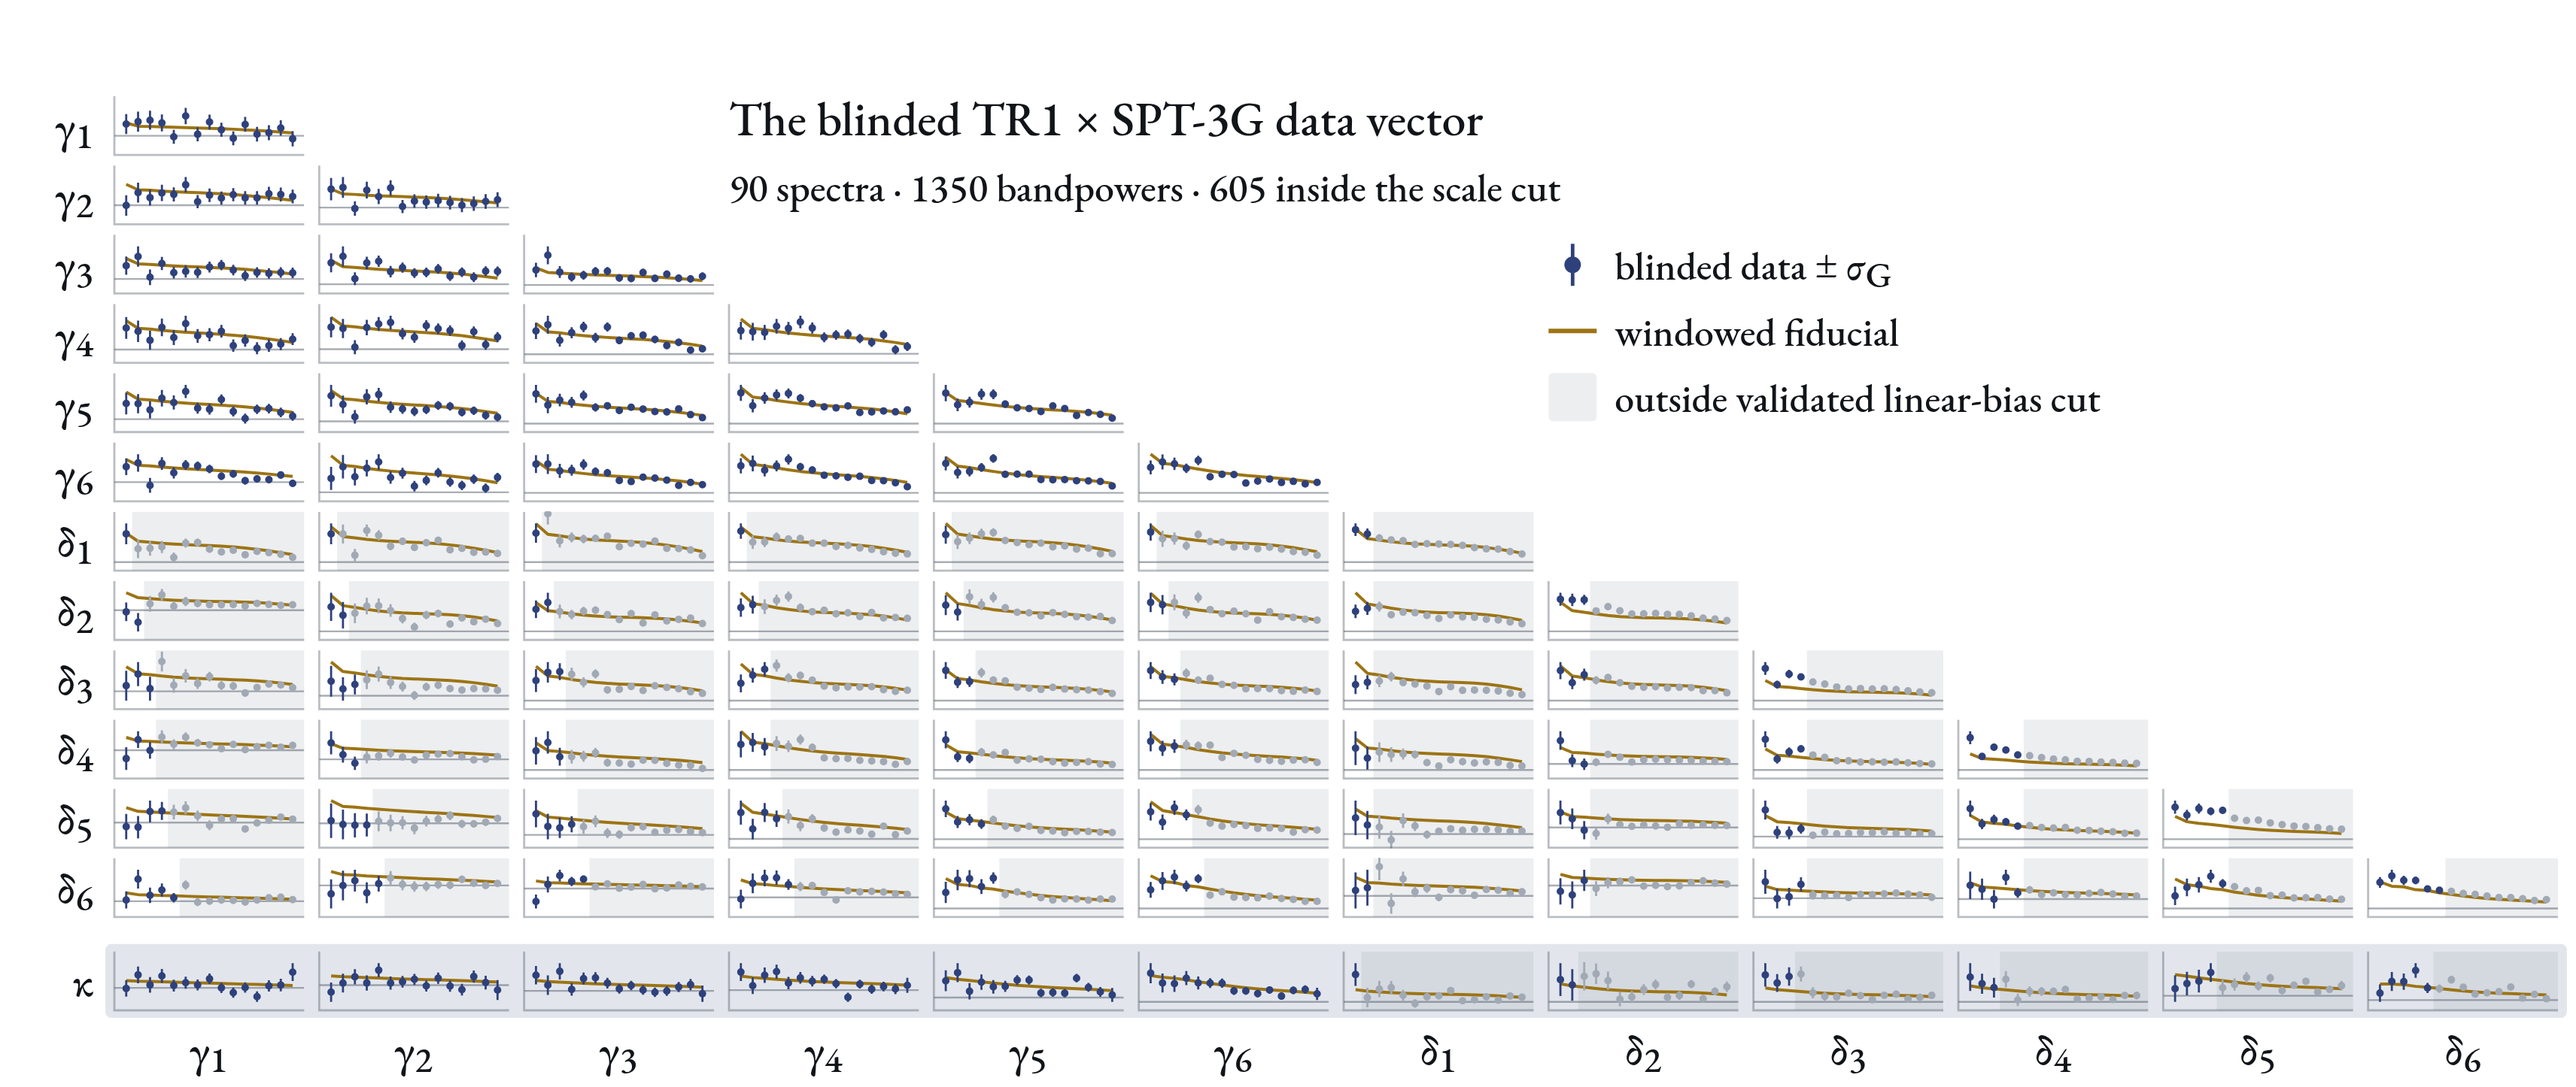
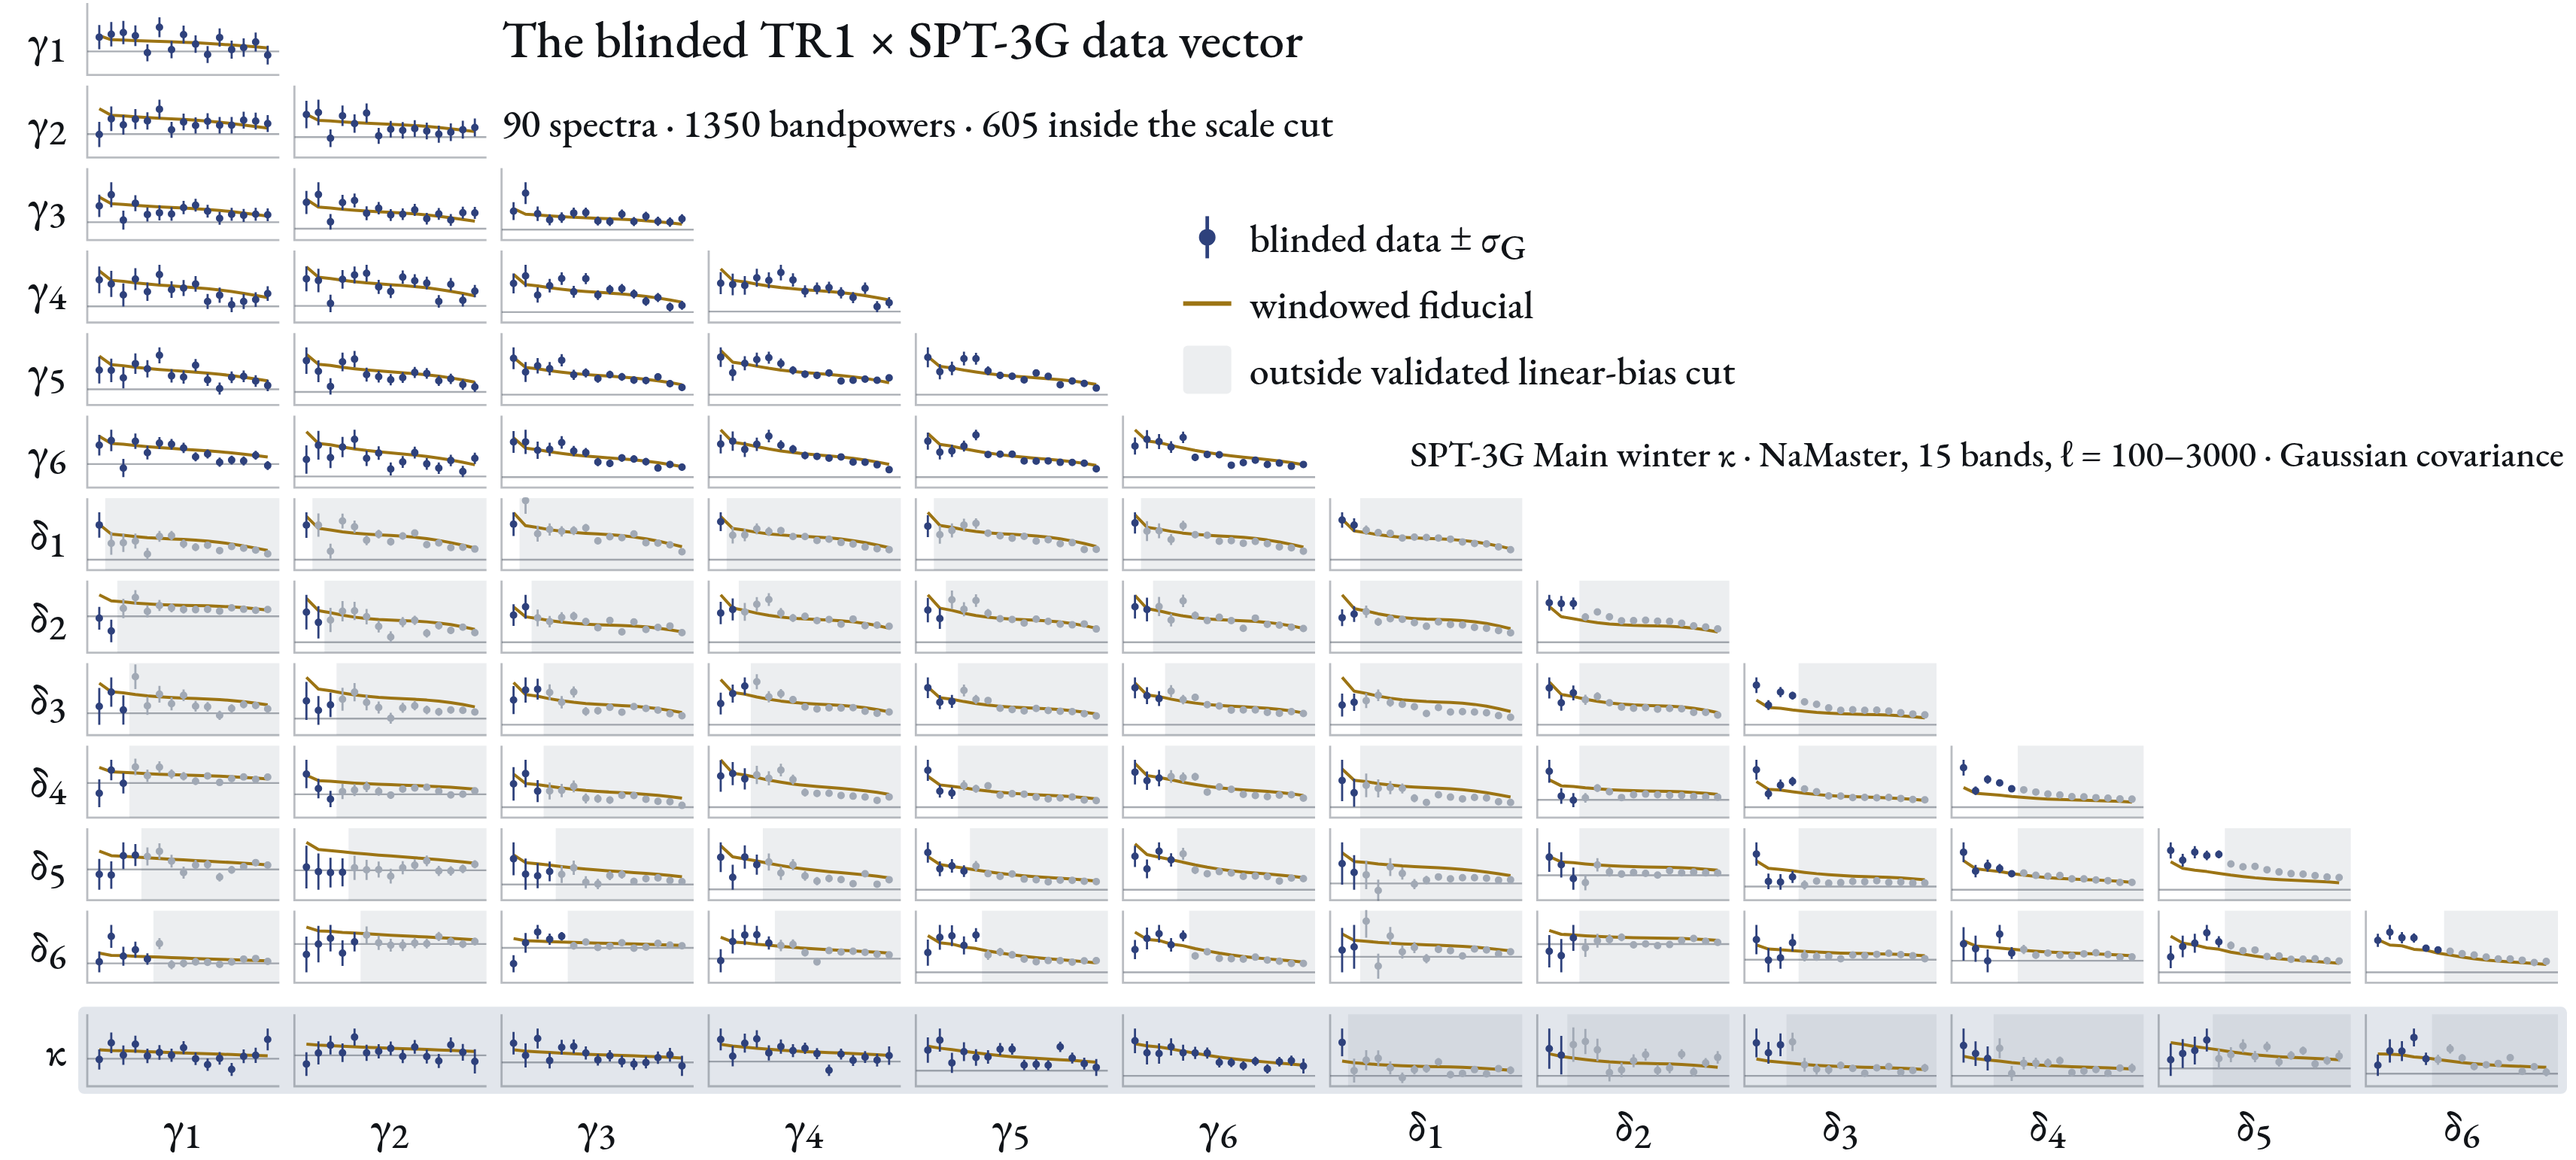
Napoli CMBX: dv-vector fills the whole slide body
The figure drops its source line (now in the notes, and as a fine line in
the triangle) and takes the full 1712×771 body. The triangle spans edge to
edge with taller cells (49 px, from 41), its title, counts, key, source and
click hint set in the empty upper-right corner; the detailed rows and the
detail card grow to match. Fallback frames re-snapshotted.

Claude-Session: https://claude.ai/code/session_01EG55r8GFGPwC9QUBtYHiTU

diff --git a/2610_Napoli_CMBX/private/dv_vector.js b/2610_Napoli_CMBX/private/dv_vector.js
@@ -15,7 +15,7 @@ House.app('dv_vector', function (figure, data, ctx) {
   'use strict';
   var T0 = performance.now();
   var NS = 'http://www.w3.org/2000/svg';
-  var W = 1712, H = 723;
+  var W = 1712, H = 771;                         // the figure layout's whole body
   var PAN_MS = 1000, ZOOM_MS = 1400, EASE = 'cubic-bezier(0.65, 0, 0.35, 1)';
 
   // ── data ────────────────────────────────────────────────────────────────
@@ -228,7 +228,7 @@ House.app('dv_vector', function (figure, data, ctx) {
   // ── layouts ─────────────────────────────────────────────────────────────
   // the kappa row: gamma_1..6 then delta_1..6, a frame width apart
   var LEFT = 118, GAP = 18, PW = (W - LEFT - 10 - 5 * GAP) / 6;
-  var MAIN = { y: 78, h: 392 }, STRIP = { y: 482, h: 150 };
+  var MAIN = { y: 70, h: 440 }, STRIP = { y: 522, h: 162 };
   var rowKeys = [0, 1, 2, 3, 4, 5].map(function (i) { return 'kappa_l' + i; })
     .concat([0, 1, 2, 3, 4, 5].map(function (i) { return 'kappa_g' + i; }));
   var rowX = function (j) { return (j < 6 ? 0 : W) + LEFT + (j % 6) * (PW + GAP); };
@@ -240,7 +240,7 @@ House.app('dv_vector', function (figure, data, ctx) {
     var rank = function (t) { return (t[0] === 'g' ? 0 : 10) + +t.slice(1); };
     return rank(a) <= rank(b) ? a + '_' + b : b + '_' + a;
   };
-  var GX = 76, GY = 64, KAPPA_GAP = 16, LAB = 44;
+  var GX = 58, GY = 2, KAPPA_GAP = 14, LAB = 42;
   var CP = (W - GX - 2) / 12, CW = CP - 10;
   var RP = (H - GY - LAB - KAPPA_GAP) / 13, CH = RP - 7;
   var cell = function (row, col) {
@@ -326,12 +326,15 @@ House.app('dv_vector', function (figure, data, ctx) {
   text(tdec, GX - 14, kc.y + kc.h / 2 + 10, 'κ', { size: 28, anchor: 'end' });
   var nb = 0, nf = 0;
   Object.keys(pairs).forEach(function (k) { nb += pairs[k].ell.length; nf += pairs[k].nfit; });
-  var hc = cell(0, 3);
-  text(tdec, hc.x, GY + 26, 'The blinded TR1 × SPT-3G data vector', { size: 32 });
-  text(tdec, hc.x, GY + 70, Object.keys(pairs).length + ' spectra · ' + nb + ' bandpowers · ' + nf + ' inside the scale cut',
+  // title, counts, key and source fill the empty upper-right triangle
+  var at = function (row, col) { var c = cell(row, col); return { x: c.x, y: c.y }; };
+  text(tdec, at(0, 2).x, at(0, 0).y + 36, 'The blinded TR1 × SPT-3G data vector', { size: 34 });
+  text(tdec, at(1, 2).x, at(1, 0).y + 34, Object.keys(pairs).length + ' spectra · ' + nb + ' bandpowers · ' + nf + ' inside the scale cut',
     { size: 26, cls: 'dvv-muted' });
-  keys.push({ g: el('g', {}, tdec), items: ['pt', 'th', 'cut'], stack: { x: cell(2, 7).x, y: cell(2, 7).y + 30 } });
-  text(tdec, cell(5, 9).x + CW, cell(5, 9).y + 30, 'click a panel to open it', { size: 24, anchor: 'end', cls: 'dvv-muted dvv-hint', italic: true });
+  keys.push({ g: el('g', {}, tdec), items: ['pt', 'th', 'cut'], stack: { x: at(2, 5).x + 40, y: at(2, 0).y + 56 } });
+  text(tdec, W - 8, at(6, 0).y + 34, 'click a panel to open it', { size: 24, anchor: 'end', cls: 'dvv-muted dvv-hint', italic: true });
+  text(tdec, W - 8, at(5, 0).y + 34, ['SPT-3G Main winter κ · NaMaster, 15 bands, ', 'ℓ', ' = 100–3000 · Gaussian covariance'],
+    { size: 24, anchor: 'end', cls: 'dvv-muted' });
   add(tdec, [{ o: 0, v: false }, { o: 0, v: false }, { o: 1, v: true }]);
   var kr = cell(12, 0), kr2 = cell(12, 11);
   el('rect', { x: kr.x - 6, y: kr.y - 5, width: kr2.x + kr2.w - kr.x + 12, height: kr.h + 10, rx: 4 }, tint);
@@ -406,7 +409,7 @@ House.app('dv_vector', function (figure, data, ctx) {
       : p.nfit + ' of ' + p.fit.length + ' bands inside the validated linear-bias cut';
     text(box, B.x + 48, B.y + 100, name(c.a) + ' × ' + name(c.b) + ' · blinded · ' + note, { size: 26, cls: 'dvv-muted' });
     drawKey({ g: el('g', {}, box), right: B.x + B.w - 40, y: B.y + 60, items: ['pt', 'th'].concat(p.nfit < p.fit.length ? ['cut'] : []) });
-    var m = { x: B.x + 150, y: B.y + 140, w: B.w - 196, h: 300 }, s = { x: m.x, y: m.y + m.h + 12, w: m.w, h: 118 };
+    var m = { x: B.x + 150, y: B.y + 140, w: B.w - 196, h: 320 }, s = { x: m.x, y: m.y + m.h + 12, w: m.w, h: 132 };
     var q = (function () {
       var lo = 0, hi = 0;
       p.t.forEach(function (t) { lo = Math.min(lo, t); hi = Math.max(hi, t); });
@@ -424,7 +427,7 @@ House.app('dv_vector', function (figure, data, ctx) {
     var rg = el('g', { transform: 'translate(' + s.x + ' ' + s.y + ') scale(' + s.w + ' ' + s.h + ')' }, box);
     drawResid(rg, p);
     drawAxes(box, m, s, q, { labels: true, ylabel: ylabel(p.e), xt: [100, 300, 1000, 3000] });
-    text(box, m.x + m.w / 2, s.y + s.h + 76, ['multipole ', 'ℓ'], { size: 28, anchor: 'middle' });
+    text(box, m.x + m.w / 2, s.y + s.h + 72, ['multipole ', 'ℓ'], { size: 28, anchor: 'middle' });
     // what the strip cannot show, said plainly
     var edge = [];
     p.r.forEach(function (r, i) { if (p.fit[i] && Math.abs(r) >= 3.7) edge.push((r > 0 ? '+' : '−') + Math.abs(r).toFixed(1)); });

diff --git a/2610_Napoli_CMBX/slides/dv-vector.html b/2610_Napoli_CMBX/slides/dv-vector.html
@@ -4,9 +4,9 @@
     <img src="private/dv_vector_1.png" alt="Blinded TR1 shear cross SPT-3G CMB lensing bandpowers in six source bins: the source-bin half of the CMB lensing row">
     <img class="fragment" src="private/dv_vector_2.png" alt="The same row panned to TR1 galaxy density cross SPT-3G CMB lensing in six lens bins, ell ranges outside the validated linear-bias cut shaded grey">
     <img class="fragment" src="private/dv_vector_3.png" alt="All 90 spectra of the blinded TR1 by SPT-3G 3x2pt plus CMB lensing data vector as a triangle of small panels, the CMB lensing row at its base">
-    <span class="source">Euclid TR1 · SPT-3G Main winter κ · NaMaster, 15 bands from $\ell = 100$ to 3000 · full Gaussian covariance · blinded.</span>
   </figure>
   <aside class="notes">
+    <p>Data: Euclid TR1 shear and galaxy density, and the SPT-3G Main winter CMB lensing map; NaMaster bandpowers, 15 bands from $\ell = 100$ to 3000; full NaMaster Gaussian covariance; blinded (cmbx_dr1_a).</p>
     <p>These are blinded data, built in three steps along one row of the data vector: the row of cross-spectra with the SPT-3G Main-field CMB lensing map. First its source-bin half: Euclid TR1 shear in six source bins against $\kappa$, $\ell C_\ell^{\gamma\kappa}$ in 15 NaMaster bandpowers from $\ell = 100$ to 3000. Error bars are $\sigma_G$, the square root of the diagonal of the full NaMaster Gaussian covariance. The gold curve is the fiducial theory pushed through the same bandpower windows as the data: a fixed reference, not a fit. The strip under each panel is $(\text{data} - \text{fiducial})/\sigma_G$, with bands at $\pm 1$ and $\pm 2$. Every $\gamma\kappa$ band is inside the scale cut.</p>
     <p>The view then pans along the same row to its lens-bin half, the galaxy-density cross $\delta\kappa$. The $\ell$ range outside the scale cut is shaded grey, and its bands are drawn grey but kept. The cut is the validated linear-bias cut: $\ell_{\max} = k_{\max} \chi$ at each lens bin's mean redshift, with $k_{\max} = 0.15\,h\,\mathrm{Mpc}^{-1}$ for $\delta\kappa$ and $\gamma\delta$ and $0.2\,h\,\mathrm{Mpc}^{-1}$ for $\delta\delta$, chosen so that perturbation-theory contamination shifts $S_8$–$\Omega_\mathrm{m}$ by less than $0.3\,\sigma_{2D}$. It keeps the lowest one to five bands of each $\delta\kappa$ spectrum, from $\ell \approx 110$ in lens bin 1 to $\ell \approx 280$ in lens bin 6. It is a choice about modelling, not a limit of the data.</p>
     <p>Finally the view pulls back to the whole data vector: 90 spectra, 1350 bandpowers, 605 of them inside the scale cut, as a lower triangle of small panels. Rows and columns run over the twelve Euclid tracers, source bins $\gamma_i$ then lens bins $\delta_i$, and the CMB lensing row is the base, in the order just panned along. Each small panel has its own vertical scale, set by the fiducial and the bands inside the cut, so excluded bands far from the fiducial run off the panel. The galaxy-clustering amplitudes vary pair by pair: fitting one amplitude per pair against the windowed fiducial (full covariance), the δδ autos sit high (about 1.0 to 1.7), the crosses between non-adjacent lens bins sit low (about 0.4 to 0.6), and δκ sits near 1. Each pair is flat in ℓ; a constant offset only looks like an excess growing with ℓ because σ shrinks. The pattern is consistent with the lens-bin n(z) being narrower than the fiducial, and it is under investigation. Fiducial magnification has not yet been excluded. In the deck, a click on any small panel opens it in detail; Escape closes it.</p>
